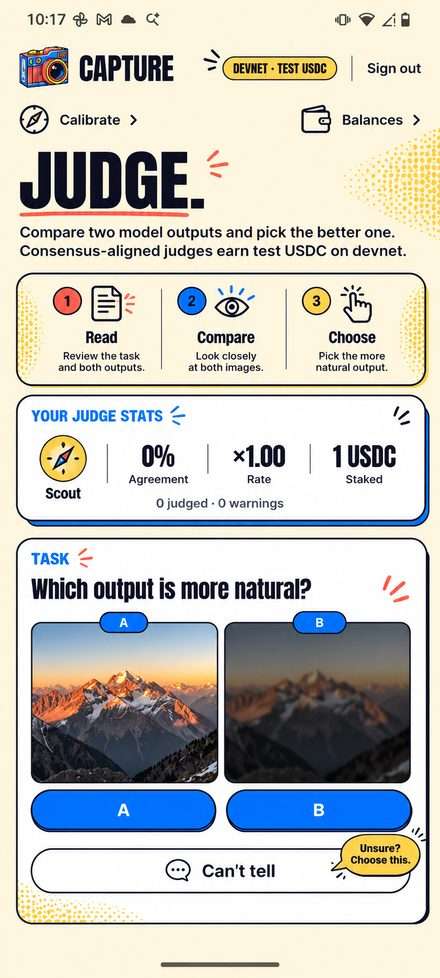
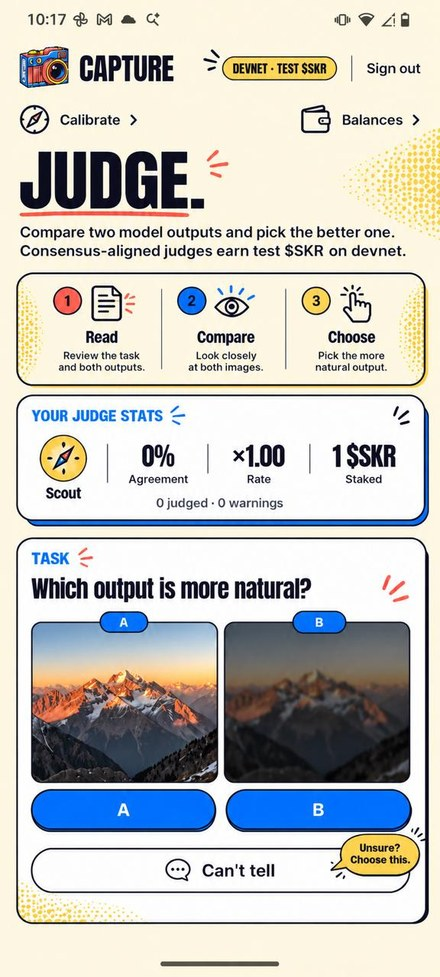
Swap screenshots to SKR and drop judge list

diff --git a/README.md b/README.md
@@ -42,9 +42,9 @@ The Solana Seeker client ships as a debug APK (devnet build, test tokens only). 
 
 ## Screenshots
 
-| Judge | Judge (list) | Calibrate | Standing | Balances |
-|---|---|---|---|---|
-| ![Judge](docs/screenshots/01-judge-mountains.jpg) | ![Judge list](docs/screenshots/02-judge-interior.jpg) | ![Calibrate](docs/screenshots/03-calibrate-guide.jpg) | ![Standing](docs/screenshots/04-calibrate-standing.jpg) | ![Balances](docs/screenshots/05-balances.jpg) |
+| Judge | Calibrate | Standing | Balances |
+|---|---|---|---|
+| ![Judge](docs/screenshots/01-judge-mountains.jpg) | ![Calibrate](docs/screenshots/03-calibrate-guide.jpg) | ![Standing](docs/screenshots/04-calibrate-standing.jpg) | ![Balances](docs/screenshots/05-balances.jpg) |
 
 ## Repository layout
 
